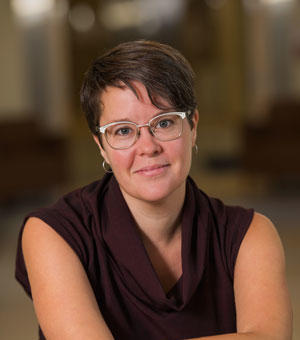
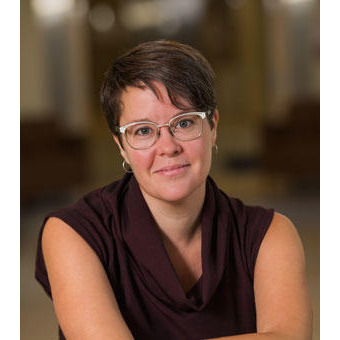
fix thumbnails

diff --git a/content/people/christopher-pascoe.md b/content/people/christopher-pascoe.md
@@ -6,7 +6,7 @@ weight: 1
 heroHeading: "Christopher Pascoe"
 heroSubHeading: ''
 heroBackground: 'images/teal_bg.png'
-thumbnail: 'people/Christopher_Pascoe_photo.jpg'
+thumbnail: 'people/Christopher_Pascoe_thumbnail.jpg'
 position: 'Assistant Professor, Physiology and Pathophysiology'
 ---
 

diff --git a/archetypes/people.md b/archetypes/people.md
@@ -6,7 +6,7 @@ weight: 1
 heroHeading: "{{ replace .TranslationBaseName "-" " " | title }}"
 heroSubHeading: ''
 heroBackground: 'images/teal_bg.png'
-thumbnail: 'work/work1.jpg'
+thumbnail: 'https://pbs.twimg.com/profile_images/1462725131915055105/ZniTY2WO_400x400.png'
 position: ''
 ---
 

diff --git a/content/people/aleeza-gerstein.md b/content/people/aleeza-gerstein.md
@@ -6,7 +6,7 @@ weight: 1
 heroHeading: "Aleeza Gerstein"
 heroSubHeading: ''
 heroBackground: 'images/teal_bg.png'
-thumbnail: 'people/Aleeza_Gerstein_photo.jpeg'
+thumbnail: 'people/Aleeza_Gerstein_thumbnail.jpeg'
 position: 'Assistant Professor, Microbiology, Statistics'
 ---
 

diff --git a/content/people/melanie-murchison.md b/content/people/melanie-murchison.md
@@ -6,7 +6,7 @@ weight: 1
 heroHeading: "Melanie Murchison"
 heroSubHeading: ''
 heroBackground: 'images/teal_bg.png'
-thumbnail: 'people/Melanie_Murchison_photo.jpg'
+thumbnail: 'people/Melanie_Murchison_thumbnail.jpg'
 position: 'Instructor II, Sociology and Criminology'
 ---
 

diff --git a/content/people/max-turgeon.md b/content/people/max-turgeon.md
@@ -6,7 +6,7 @@ weight: 1
 heroHeading: "Max Turgeon"
 heroSubHeading: ''
 heroBackground: 'images/teal_bg.png'
-thumbnail: 'people/Max_Turgeon_photo.jpeg'
+thumbnail: 'people/Max_Turgeon_thumbnail.jpeg'
 position: 'Assistant Professor, Statistics, Computer Science'
 ---
 

diff --git a/content/people/dylan-mackay.md b/content/people/dylan-mackay.md
@@ -6,7 +6,7 @@ weight: 1
 heroHeading: "Dylan MacKay"
 heroSubHeading: ''
 heroBackground: 'images/teal_bg.png'
-thumbnail: 'people/Dylan_MacKay_photo.JPG'
+thumbnail: 'people/Dylan_MacKay_thumbnail.JPG'
 position: 'Assistant Professor, Community Health Sciences'
 ---
 

diff --git a/content/people/jennifer-doering.md b/content/people/jennifer-doering.md
@@ -6,7 +6,7 @@ weight: 1
 heroHeading: "Jennifer Doering"
 heroSubHeading: ''
 heroBackground: 'images/teal_bg.png'
-thumbnail: 'people/Jennifer_Doering_photo.jpg'
+thumbnail: 'people/Jennifer_Doering_thumbnail.jpg'
 position: 'Instructor I, Biological Sciences'
 ---
 

diff --git a/content/people/kaarina-kowalec.md b/content/people/kaarina-kowalec.md
@@ -6,7 +6,7 @@ weight: 1
 heroHeading: "Kaarina Kowalec"
 heroSubHeading: ''
 heroBackground: 'images/teal_bg.png'
-thumbnail: 'people/Kaarina_Kowalec_photo.jpg'
+thumbnail: 'people/Kaarina_Kowalec_thumbnail.jpg'
 position: 'Assistant Professor, Pharmacy'
 ---
 

diff --git a/content/people/patty-thille.md b/content/people/patty-thille.md
@@ -6,7 +6,7 @@ weight: 1
 heroHeading: "Patty Thille"
 heroSubHeading: ''
 heroBackground: 'images/teal_bg.png'
-thumbnail: 'people/Patty_Thille_photo.jpg'
+thumbnail: 'people/Patty_Thille_thumbnail.jpg'
 position: 'Assistant Professor, Physical Therapy'
 ---
 

diff --git a/content/people/deanna-santer.md b/content/people/deanna-santer.md
@@ -6,7 +6,7 @@ weight: 1
 heroHeading: 'Deanna Santer'
 heroSubHeading: ''
 heroBackground: 'images/teal_bg.png'
-thumbnail: 'people/Deanna_Santer_photo.png'
+thumbnail: 'people/Deanna_Santer_thumbnail.png'
 position: 'Assistant Professor, Immunology'
 ---
 
